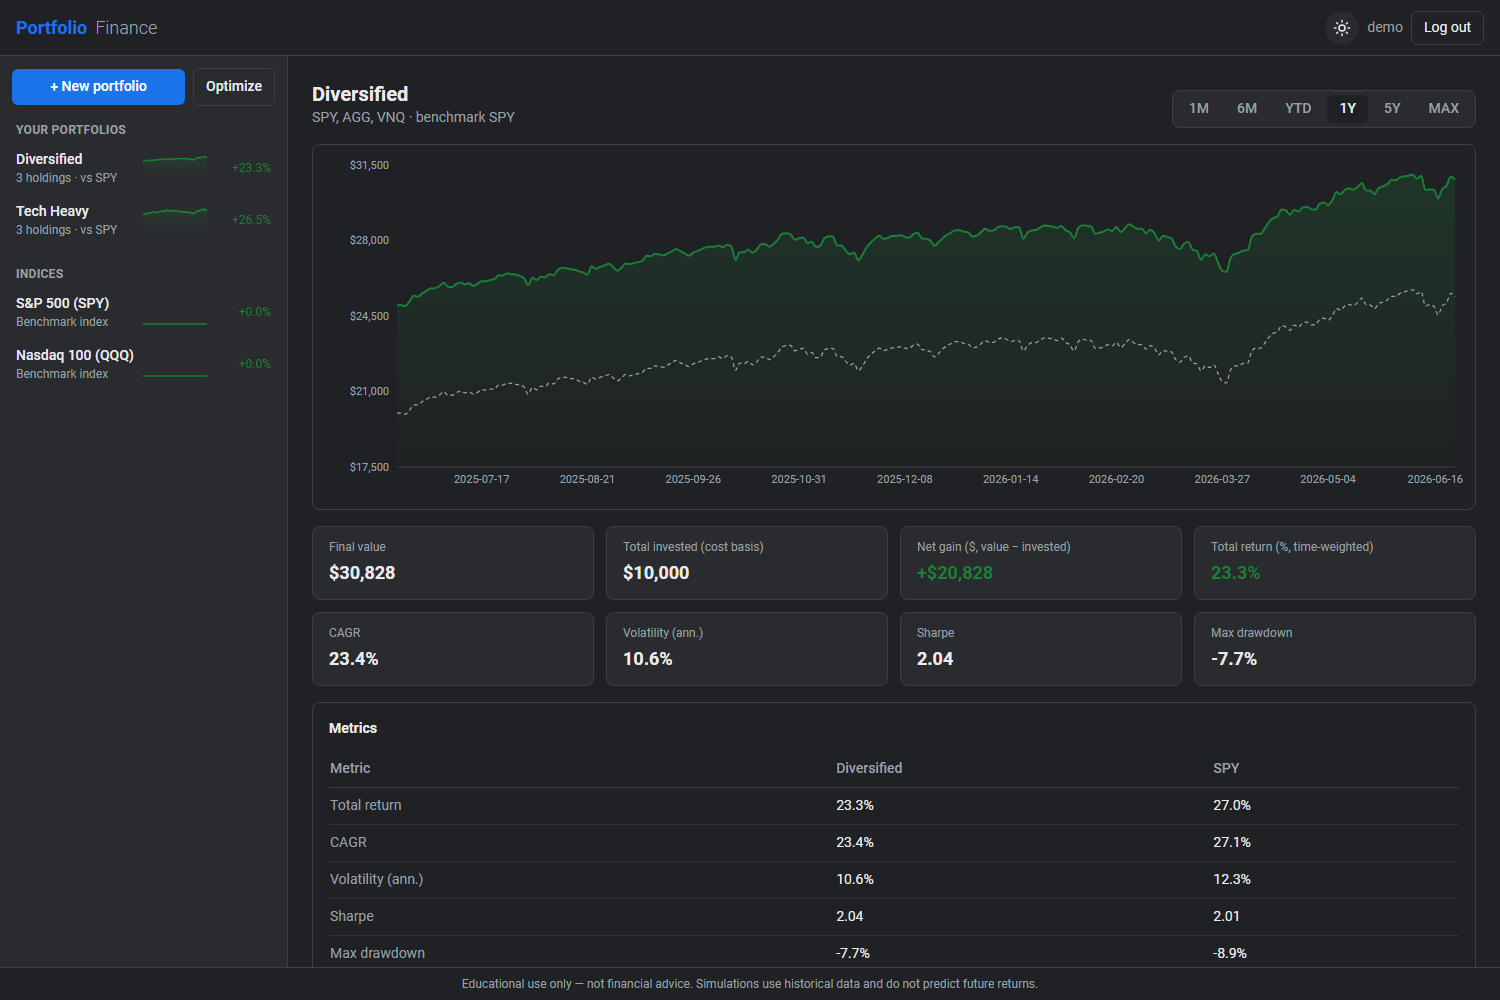
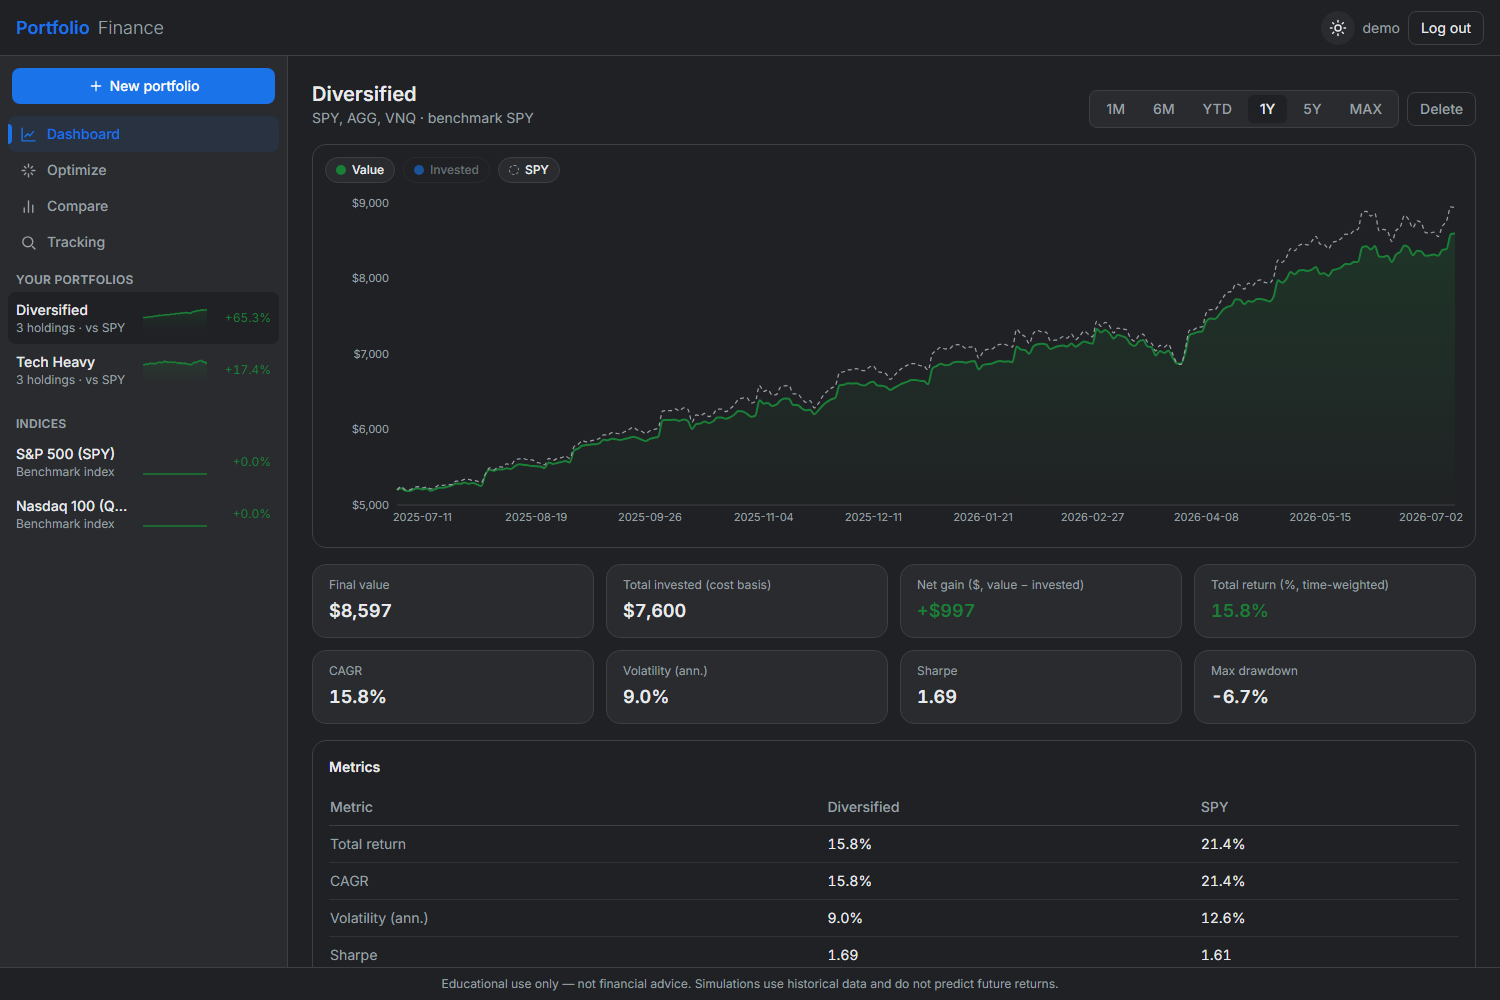
docs: web UI v2 (design system, Compare & Tracking) — guide, screenshots, PROGRESS

diff --git a/docs/PROGRESS.md b/docs/PROGRESS.md
@@ -8,14 +8,14 @@ _Last updated: 2026-06-13_
 
 ## Next step (start here on resume)
 
-- **Web UI (FastAPI + React) MVP is complete** (built alongside Streamlit; SQLite).
+- **Web UI v2 is complete** (modern design system + Compare & Tracking in React).
   Remaining for the **Final Phase (production)**: SQLite→**Supabase Postgres**
   (Alembic — only `DATABASE_URL` changes), **GitHub Actions cron** for daily refresh,
-  auth hardening (require `AUTH_SECRET`; refresh tokens), **Compare + Tracking views
-  in React** (currently web-MVP has dashboard/simulation/optimize), and **cloud
-  deploy**. See `docs/PLAN.md` Final Phase + [docs/WEB_UI.md](WEB_UI.md).
+  auth hardening (refresh tokens), and **cloud deploy**. See `docs/PLAN.md` Final
+  Phase + [docs/WEB_UI.md](WEB_UI.md).
 - **Web-UI known follow-ups (non-blocking):** sidebar does one `/api/simulate` per row
-  (N+1 live fetches — fine for a few portfolios; batch later); JWT in `localStorage`.
+  (N+1 live fetches — fine for a few portfolios; batch later); JWT in `localStorage`;
+  focus trap in drawer/modal; route-level code-splitting (~900 kB JS chunk).
 - **Known Phase 1 follow-ups (non-blocking):** tracking metrics are value-based
   (honest caption added); a correct TWR-based tracking metric would need storing the
   `twr_index` in `daily_valuations` (schema migration). Auth signup has a benign
@@ -28,28 +28,28 @@ _Last updated: 2026-06-13_
 
 ## In progress
 
-- **Branch `feat/web-modern-ui` — React web UI modernization + Compare/Tracking.**
-  Increment B (modernization): Inter variable font, refined Tailwind tokens
-  (radius/soft-shadows/shimmer), reusable `Skeleton`/`Card`/`EmptyState`/`CountUp`
-  primitives, framer-motion (staggered KPI entrance, count-up on $ tiles — TWR %
-  strings stay verbatim, chart cross-fade on range change, `AnimatePresence` route
-  transitions, all gated behind `prefers-reduced-motion`), sonner toasts
-  (save/delete/optimize + API errors), GrowthChart legend chips (toggle
-  benchmark/invested) + restyled tooltip, sidebar active accent + slide-in mobile
-  drawer (hamburger, backdrop, Escape/route close), responsive KPI grid + a11y
-  focus rings/aria-labels, gradient Login card. Migrated the app-shell's local
-  view-switch to real routes (`/ /optimize /compare /tracking`). Increment C (new
-  views, built to the given API contract): **Compare** (chip multi-select 2–3,
-  shared start + benchmark, one multi-line chart, side-by-side KPI columns, metrics
-  table per portfolio + benchmark) and **Tracking** (portfolio picker, stored
-  valuations vs dashed benchmark, "Refresh now" with rows-written toast + refetch,
-  honest contributions caption, first-refresh empty state). New deps:
-  framer-motion, sonner, @fontsource-variable/inter. Gates green: `npm run build`
-  (tsc) + `npm run lint`. Backend endpoints (`/api/compare`,
-  `/api/portfolios/{id}/valuations`, `/api/portfolios/{id}/refresh`) built in
-  parallel by backend-data.
+- _(nothing in flight)_
 
 ## Done
+
+- **✅ Web UI v2 — modern + dynamic, with Compare & Tracking** (agents built in
+  parallel worktrees; both branches independently code-reviewed, fixed, merged).
+  **Backend** (`feat/api-compare-tracking`, backend-data): `/api/compare` (globally
+  aligned shared window; per-portfolio saved schedules; `dropped` surfaced),
+  `GET /api/portfolios/{id}/valuations`, `POST .../refresh`; review fix landed at the
+  source in `jobs/refresh.py` (price-less holding no longer 500s — also fixes
+  Streamlit tracking). **Frontend** (`feat/web-modern-ui`, frontend-viz): Inter +
+  design tokens, skeleton shimmer loaders, Framer Motion (staggered entrances,
+  count-ups, cross-fades, route transitions; reduced-motion gated), sonner toasts,
+  chart legend chips (toggle benchmark/invested), mobile drawer (390px verified),
+  real routes `/compare` `/tracking` + the two new views; review fixes: honest
+  compare caption (each portfolio keeps its own contribution plan), stale-results
+  gating, deep-link login return. **Live validation caught + fixed a real bug:** a
+  portfolio holding its own benchmark (SPY vs SPY) crashed refresh/simulate via a
+  duplicated price column — deduped in `jobs/refresh.py` + `app/sim_runner.py` with
+  regression tests. **125 tests green**, ruff clean, `npm run build`+lint clean;
+  Playwright-verified (dashboard light/dark, skeletons, Compare, Tracking, mobile —
+  `docs/screenshots/web-*.png`). Streamlit `app/` untouched (verified).
 
 - **✅ Web UI (FastAPI + React) MVP — Google-Finance style** (built by the agent team,
   reviewed, merged). Isolated by directory (Streamlit `app/` untouched — verified):

diff --git a/docs/WEB_UI.md b/docs/WEB_UI.md
@@ -61,12 +61,32 @@ UI, or seed a demo user with the existing `storage.Repository` against the same
 - The DB is local SQLite for now; the production phase moves it to Supabase/Postgres
   (only the `DATABASE_URL` changes — the schema/migrations are unchanged).
 
-## Features (MVP)
+## Features
 
-Login/signup · sidebar of portfolios + benchmark indices with green/red sparklines ·
-**dashboard** growth area chart (green/red) with time-range tabs + a KPI grid (all
-percentages time-weighted for consistency) + a metrics-vs-benchmark table ·
-**new portfolio** (ticker search, weights or $-amounts, contributions) · **optimize**
-(allocate/select, suggested vs equal-weight). Compare + Tracking views are follow-ups.
+Login/signup (deep links survive the login round-trip) · sidebar of portfolios +
+benchmark indices with green/red sparklines · **dashboard** growth area chart
+(green/red, legend chips to toggle the benchmark/invested series) with time-range
+tabs + a KPI grid (all percentages time-weighted for consistency) + a
+metrics-vs-benchmark table · **new portfolio** (ticker search, weights or $-amounts,
+contributions) · **optimize** (allocate/select, suggested vs equal-weight) ·
+**compare** (2–3 saved portfolios on one chart over a shared window; each keeps its
+own saved contribution plan) · **tracking** (stored daily valuations vs benchmark +
+"Refresh now").
+
+![Compare](screenshots/web-compare.png)
+![Tracking](screenshots/web-tracking.png)
+
+## Design system (v2)
+
+Inter variable font · Tailwind tokens (rounded-xl surfaces, layered shadows) ·
+skeleton shimmer loaders · Framer Motion (staggered entrances, KPI count-ups, chart
+cross-fades, route transitions — all gated behind `prefers-reduced-motion`) · sonner
+toasts · **responsive**: below `lg` the sidebar becomes a slide-in drawer
+(hamburger, Escape/backdrop/route-change close); usable at 390px width.
+
+<img src="screenshots/web-mobile.png" alt="Mobile drawer" width="300">
+
+Known follow-ups: focus trap in drawer/modal; route-level code-splitting (single
+~900 kB JS chunk); batching the sidebar's per-row simulate calls.
 
 > **Educational use only — not financial advice.**

diff --git a/README.md b/README.md
@@ -22,10 +22,13 @@ directory, both running independently:
 
 - **Streamlit** (`app/`) — the original, fastest to iterate.
 - **Web UI** (`api/` FastAPI + `web/` React) — a Google-Finance-style SPA with
-  light/dark themes and green/red charts. See [docs/WEB_UI.md](docs/WEB_UI.md).
+  light/dark themes, green/red charts, Framer-Motion dynamics (skeleton loaders,
+  count-ups, route transitions), a responsive mobile drawer, and Dashboard /
+  Optimize / **Compare** / **Tracking** views. See [docs/WEB_UI.md](docs/WEB_UI.md).
 
 ![Web dashboard — light](docs/screenshots/web-dashboard-light.png)
 ![Web dashboard — dark](docs/screenshots/web-dashboard-dark.png)
+![Web compare](docs/screenshots/web-compare.png)
 
 ## Project layout
 
